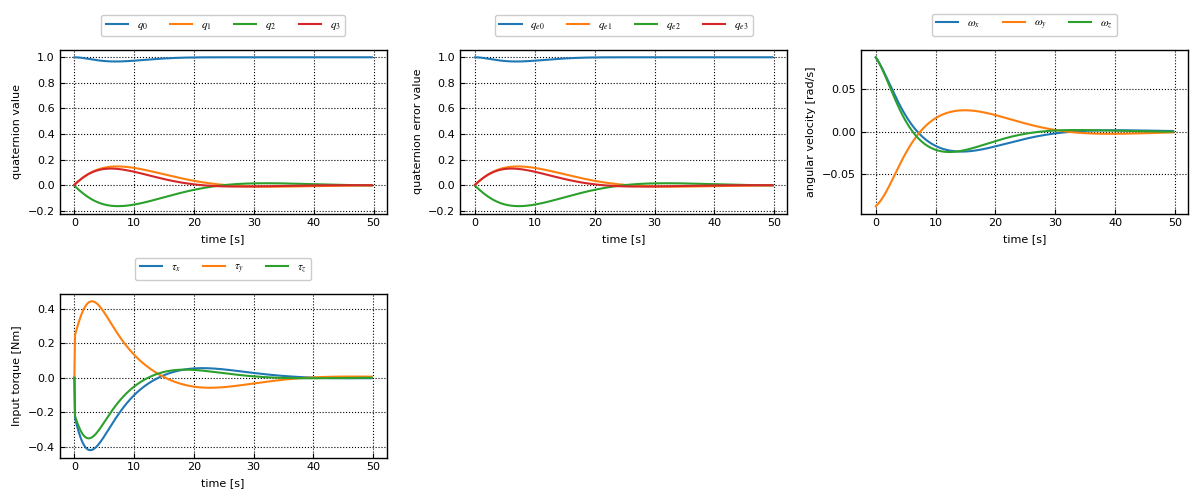
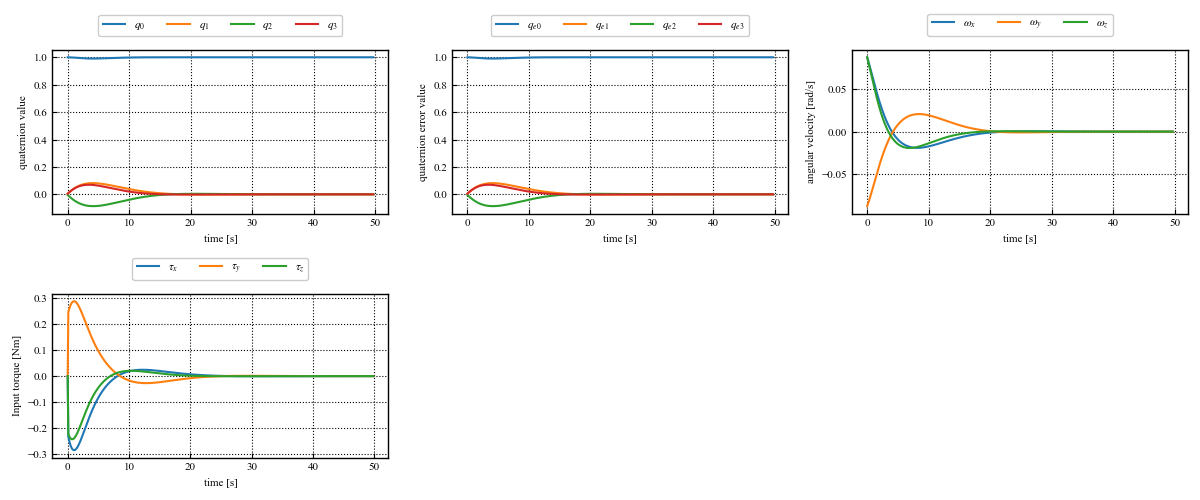
UPDATE: train agent

diff --git a/td3/environment.py b/td3/environment.py
@@ -146,7 +146,7 @@ class SatelliteContinuousEnv(gym.Env):
         self.omega_count = 0
         
         #報酬パラメータ
-        self.q_weight = 50#1*20
+        self.q_weight = 100#1*20
         self.w_weight = 80#1.5*100
         self.action_weight = 0.25*2#0.25*10
         self.action_rate_weight = 0.1*3
